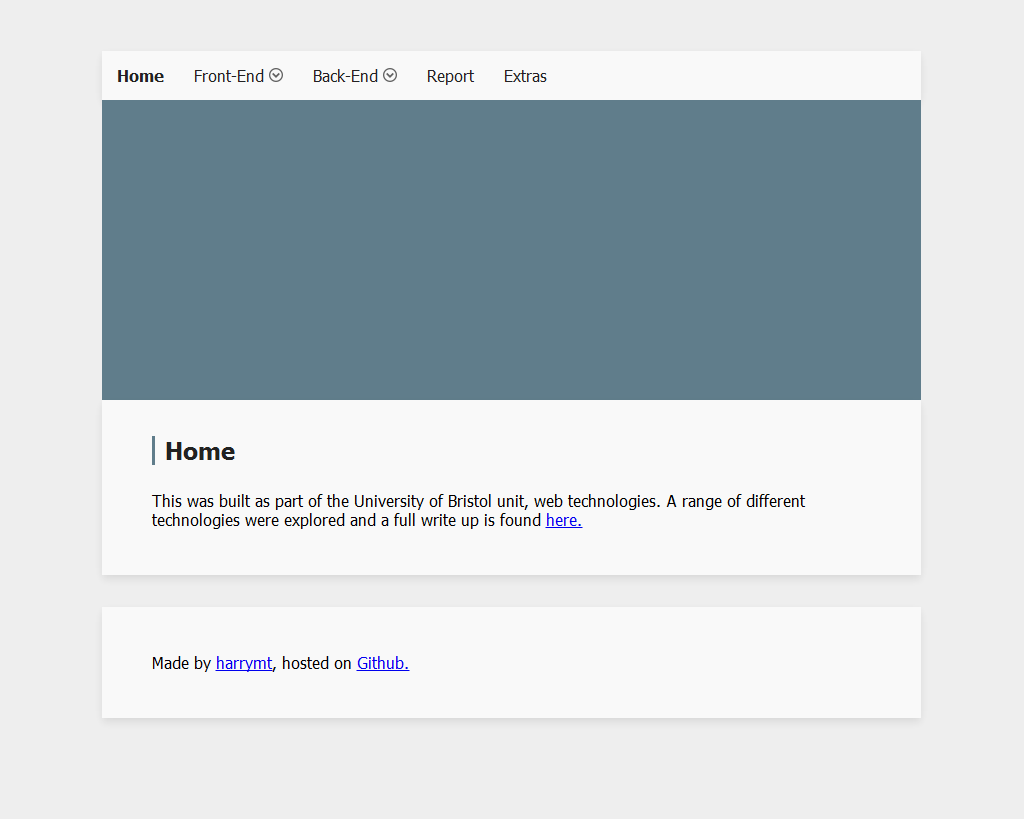
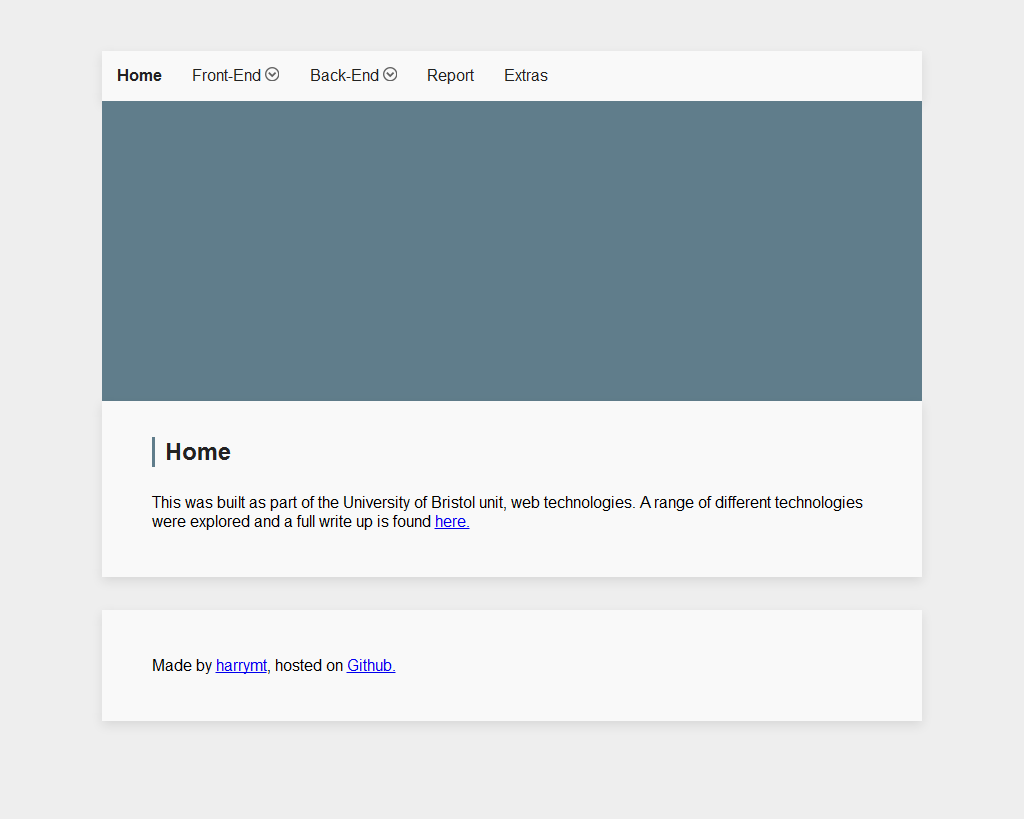
Moved to grunt-pageres for better screenshot quality

diff --git a/Gruntfile.js b/Gruntfile.js
@@ -21,7 +21,7 @@ module.exports = function (grunt) {
       mocha: 'npm test',
       server: 'node server',
       gitstatus: 'git status',
-      screenshot: 'grunt webshot && git commit -am "Auto generated screenshot" && git push',
+      screenshot: 'grunt pageres && git commit -am "Auto generated screenshot" && git push',
       deploy: 'git checkout heroku/master && git pull && git checkout master && git push heroku master'
     },
 
@@ -108,23 +108,15 @@ module.exports = function (grunt) {
       }
     },
 
-    webshot: {
-        homepage: {
-            options: {
-                siteType: 'url',
-                site: production_url,
-                savePath: './screenshot.png',
-                windowSize: {
-                    width: 1024,
-                    height: 768
-                },
-                shotSize: {
-                    width: 1024,
-                    height: 'all'
-                },
-                renderDelay: 10
-            }
+    pageres: {
+      screenshot: {
+        options: {
+          urls: production_url,
+          sizes: ['1024x768'],
+          dest: './',
+          filename: 'screenshot'
         }
+      }
     }
   });
 
@@ -135,7 +127,7 @@ module.exports = function (grunt) {
   grunt.loadNpmTasks('grunt-contrib-watch'); // On file update, do task
   grunt.loadNpmTasks('grunt-exec'); // Run command line commands
   grunt.loadNpmTasks('grunt-pagespeed'); // Test page performance
-  grunt.loadNpmTasks('grunt-webshot'); // Take a screenshot
+  grunt.loadNpmTasks('grunt-pageres'); // Take a screenshot
 
   // Validate Pug and SCSS files
   grunt.registerTask('lint', ['puglint', 'scsslint']);
